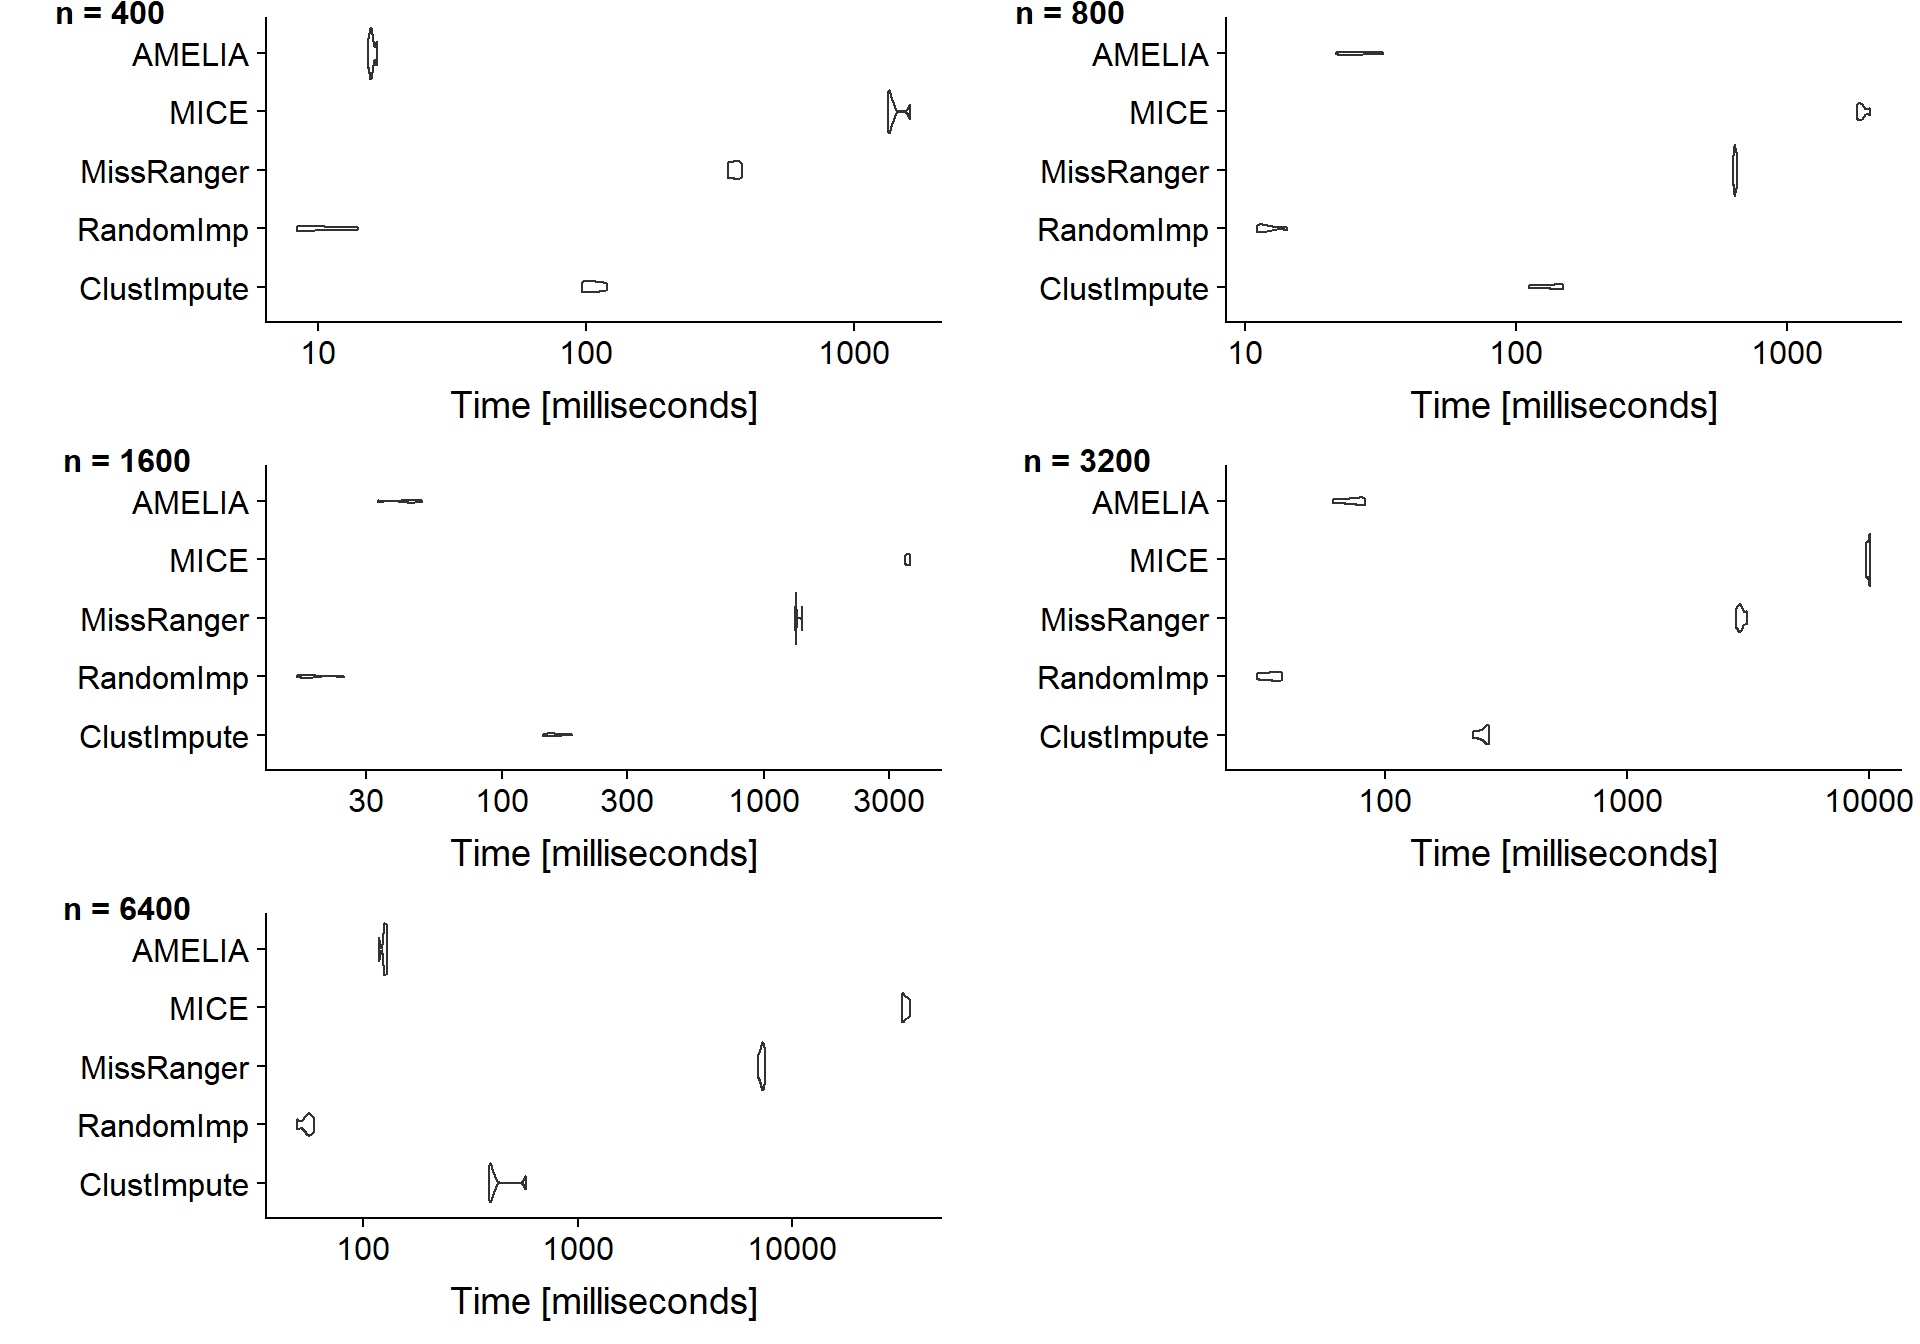
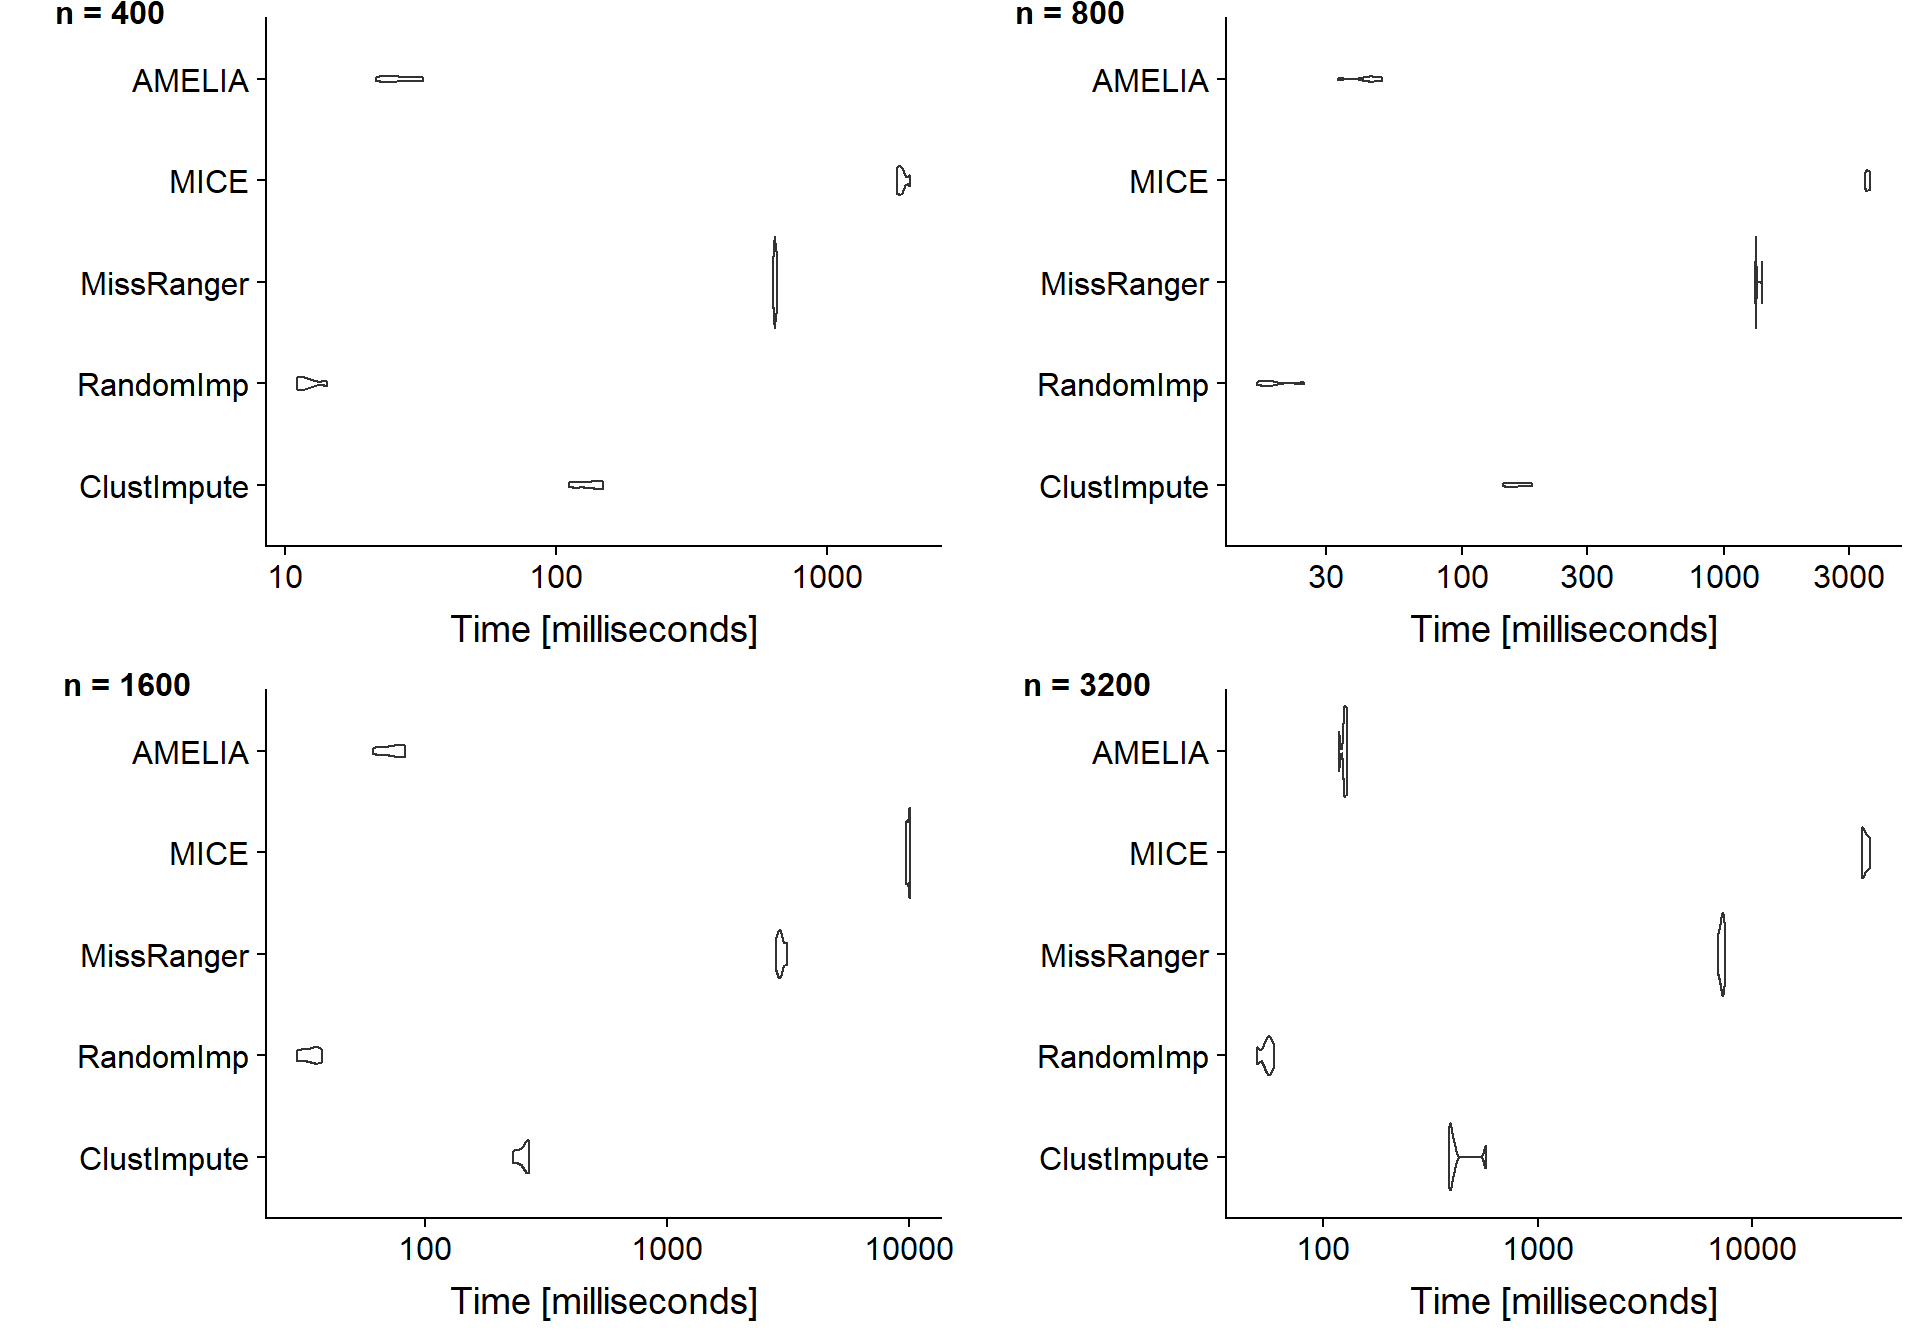
small fix

diff --git a/content/post/2019-07-01-benchmarking-missing-data-strategies-for-k-means-clustering.html b/content/post/2019-07-01-benchmarking-missing-data-strategies-for-k-means-clustering.html
@@ -121,11 +121,11 @@ for (n in N) {
   results$benchmark_median[[count]] &lt;- mbm_median
 }</code></pre>
 <p>Below are the results for the four data sets (only differing in size). Clearly a reandom imputation is fastest, but the AMELIA package is only slightly slower. ClustImpute is 3rd and considerably faster than MICE and missRanger.</p>
-<pre class="r"><code>plot_grid(autoplot(results$benchmark[[1]]),autoplot(results$benchmark[[2]]),autoplot(results$benchmark[[3]]),autoplot(results$benchmark[[4]]),
+<pre class="r"><code>plot_grid(autoplot(results$benchmark[[2]]),autoplot(results$benchmark[[3]]),autoplot(results$benchmark[[4]]),
           autoplot(results$benchmark[[5]]),
                ncol=2,labels=sprintf(&quot;n = %s&quot;,N),label_size = 12,vjust=1)</code></pre>
 <p><img src="/post/2019-07-01-benchmarking-missing-data-strategies-for-k-means-clustering_files/figure-html/unnamed-chunk-6-1.png" width="960" /></p>
-<p>Let’s focus on the scalabiltiy here: Amelia and ClustImpute scale much better than MICE and missRanger. ClustImpute scales like a simple random imputation and thus better than AMELIA.</p>
+<p>Let’s focus on the scalabiltiy here: Amelia and ClustImpute scale much better than MICE and missRanger. ClustImpute scales like a simple random imputation and similarly as AMELIA.</p>
 <pre class="r"><code>data2plot &lt;- data.frame(median=unlist(results$benchmark_median))
 data2plot$method &lt;- rep(Hmisc::Cs(ClustImpute,RandomImp,MissRanger,MICE,AMELIA),length(N))
 data2plot$n &lt;- rep(N,each=5)
@@ -138,8 +138,7 @@ ps2 &lt;- ggplot(data2plot,aes(x=n,y=median,color=method)) + geom_point() + them
   scale_y_log10() + xlab(&quot;Numer of observations n&quot;) + ylab(&quot;Median running time in seconds&quot;) + theme(legend.position=&quot;none&quot;)
 plot_grid(ps1 + theme(legend.position=&quot;none&quot;),ps2,legend,nrow=1,rel_widths = c(3,3,1))</code></pre>
 <p><img src="/post/2019-07-01-benchmarking-missing-data-strategies-for-k-means-clustering_files/figure-html/unnamed-chunk-7-1.png" width="960" /></p>
-<p>Of course, these plots only consider the running time. Below is a table of the rand indices comparing the resulting clusters with the true clusters.</p>
-<p>ToDo write text when results are final</p>
+<p>Of course, above plots only consider the running time. Below is a table of the rand indices comparing the resulting clusters with the true clusters. ClustImpute provides the highest numbers, although the other imputation methods (except random imputation) could provide better results if they are tuned.</p>
 <pre class="r"><code>randtbl &lt;- data.frame(matrix(unlist(results$randIndex),nrow=length(results$randIndex), byrow=T))
 colnames(randtbl) &lt;- names(results$randIndex[[1]])
 randtbl$N &lt;- N
